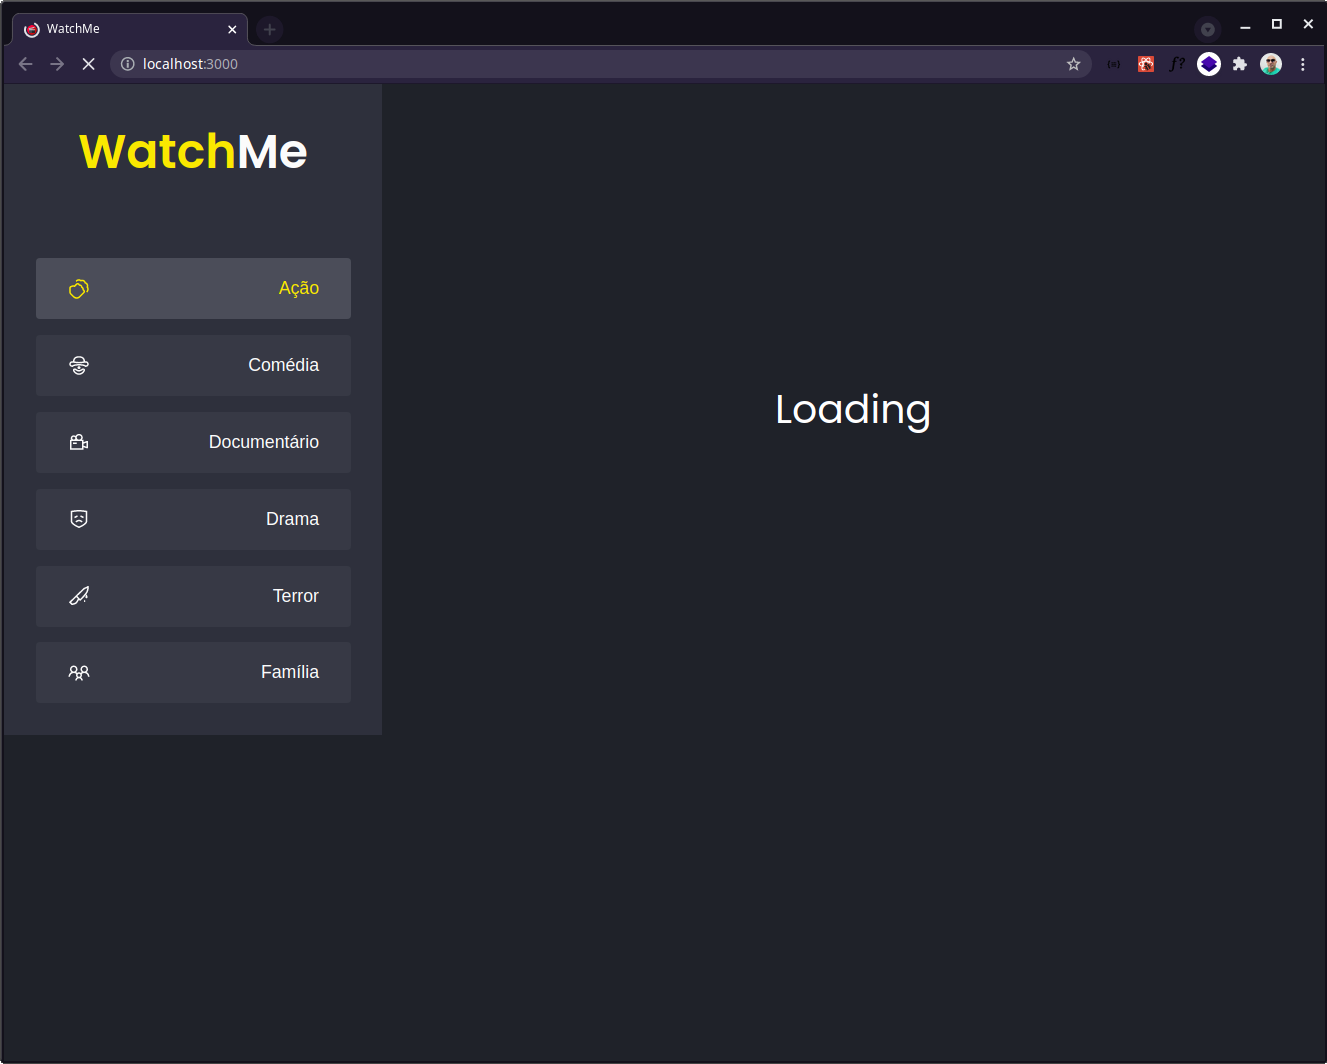
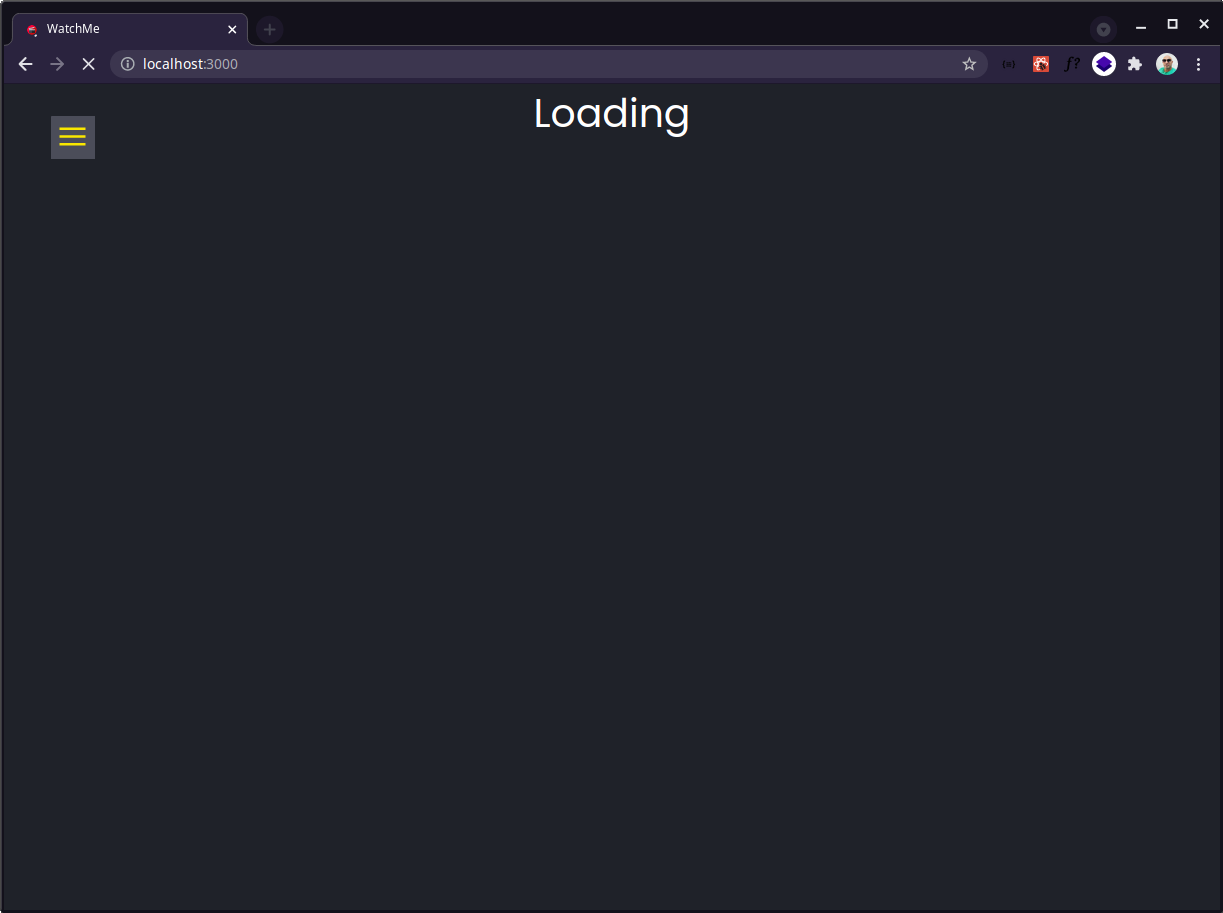
Finalizando desafio

diff --git a/src/components/SideBar/styles.scss b/src/components/SideBar/styles.scss
@@ -1,9 +1,13 @@
 nav.sidebar-container {
   max-width: 22rem;
   width: auto;
-  position: relative;
+  position: absolute;
+  z-index: 8;
+  top: 2rem;
+  left: 3rem;
 
   div.sidebar {
+    position: relative;
     display: flex;
     flex-direction: column;
 
@@ -38,50 +42,43 @@ nav.sidebar-container {
 
   .sidebar-button {
     position: absolute;
+    padding: 0.313px;
     width: 3rem;
     height: 3rem;
     background: var(--background-button2);
     color: var(--yellow);
-    top: 1rem;
-    right: -5rem;
-    border-radius: 4px;
+    top: 0;
+    left: 0;
+    z-index: 9;
+
+    border-right: 5px solid var(--background);
+    border-bottom: 5px solid var(--background);
+    border-radius: 1px;
 
     display: flex;
     justify-content: center;
     align-items: center;
 
-    font-size: 3rem;
     font-weight: bold;
+    overflow: hide;
 
     cursor: pointer;
-    z-index: 99;
 
-    img {
-      width: 2.5rem;
+    img, svg {
+      width: 2rem;
     }
   }
 
-  @media screen and (min-width: 993px) {
-    .sidebar-button {
-      display: none;
-    }
-  }
-}
-
-@media screen and (max-width: 992px) {
   nav.sidebar-container {
-    position: absolute;
-    z-index: 8;
     top: 0;
     left: 0rem;
+  }
 
- }
-}
+  .hide {
+    display: none;
+  }
 
-.hide {
-  display: none;
-}
-
-.bt-right {
-  right: 0rem;
+  .bt-right {
+    right: 0rem;
+  }
 }

diff --git a/src/components/Header/index.tsx b/src/components/Header/index.tsx
@@ -10,7 +10,7 @@ export function Header({ selectedGenre }: HeaderProps) {
       <span className="category">
         {selectedGenre && (
           <>
-            Categoria:<span> {selectedGenre}</span>
+            <span> {selectedGenre}</span>
           </>
         )}
       </span>

diff --git a/src/components/SideBar/index.tsx b/src/components/SideBar/index.tsx
@@ -12,6 +12,7 @@ export function SideBar() {
 
   function handleClickButton(id: number) {
     setSelectedGenreId(id);
+    setIsActive(false);
   }
 
   const handleToggle = () => {
